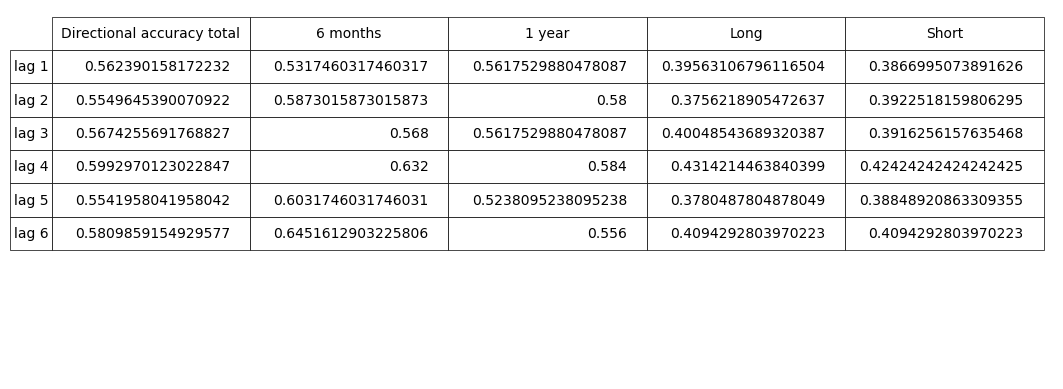
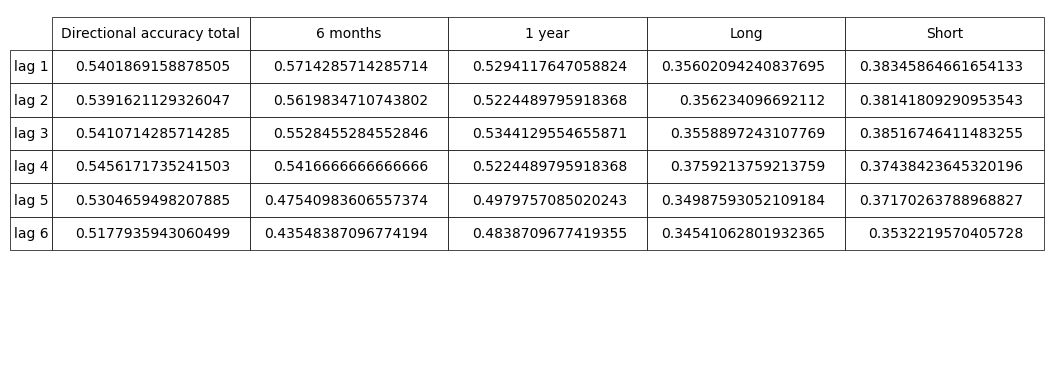
Add SQLite module for saving directional accuracy score. Add timestamp as input for lstm research.

diff --git a/data_service/data_preparation.py b/data_service/data_preparation.py
@@ -2,6 +2,8 @@ import pandas_ta as ta
 import pandas as pd
 import numpy as np
 import requests
+from collections import OrderedDict
+import traceback
 from data_service.vendors_data import yahoo_downloader as yd
 from data_service.vendors_data import binance_downloader as bd
 from data_service.vendors_data.av_downloader import AVDownloader
@@ -58,6 +60,35 @@ class DataPreparation:
             df = close_prices.copy()
             df.dropna(inplace=True)
             return df
+
+        def close_with_time(df, interval):
+            # Assuming 'close(df)' is a predefined function
+            close_df = close(df)
+
+            # Extract the interval unit and number
+            interval_unit = interval[-1]  # get the last character for unit (h, m, d, wk, M)
+            interval_number = int(interval[:-1])  # get the number part of the interval
+
+            # Define a dictionary for the interval unit conversion function
+            conversion_function = {
+                'h': lambda x: x.dt.hour + x.dt.minute / 60 + x.dt.second / 3600,
+                'm': lambda x: x.dt.minute + x.dt.second / 60,
+                'd': lambda x: x.dt.day,
+                'w': lambda x: x.dt.isocalendar().week,
+                'M': lambda x: x.dt.month
+            }
+
+            # Check if the interval unit is valid
+            if interval_unit in conversion_function:
+                # Apply the conversion function to the index
+                time_component = conversion_function[interval_unit](close_df.index.to_series())
+                # Scale based on the interval number and normalize
+                close_df['timestamp_int'] = (time_component / (interval_number * 100)).astype(float)
+
+            else:
+                raise ValueError("Invalid interval unit. Please use 'h', 'm', 'd', 'wk', or 'mo'.")
+
+            return close_df
 
         def volume(df):
             tech_dataset = df.copy()
@@ -222,31 +253,55 @@ class DataPreparation:
             df = pd.concat([df_close, df_senti], axis=1).dropna().copy()
         elif self.type == 'Fundamentals':
             df = fundamentals(df)
+
         else:
-            q1 = close(df)
-            q2 = volume(df)
-            q3 = open(df)
-            q4 = technical(df)
-            q5 = indicators(df, self.past)
-            q6 = macro(df, self.interval)
+            df_dict = {}
+            functions_to_call = {
+                'close': close,
+                'time': lambda df: close_with_time(df, self.interval),
+                'volume': volume,
+                'open': open,
+                'technical': technical,
+                'indicators': lambda df: indicators(df, self.past),
+                'macro': lambda df: macro(df, self.interval),
+                'senti': lambda: 100 + senti(self.asset),  # No 'df' passed here
+                'crypto_sentiment_daily': crypto_sentiment_daily,
+                'ranked_crypto_sentiment_daily': ranked_crypto_sentiment_daily,
+                'crypto_benchmark': lambda: crypto_benchmark()[['Close']].rename(columns={'Close': 'BTC-USD Close'}),
+                'meteo': meteo,
+            }
 
-            try:
-                q7 = 100 + senti(self.asset)
-            except:
-                q7 = pd.DataFrame()
-                print('Sentiment dictionary doesnt contain the asset')
+            # Iterate over the dictionary, try to call each function and store the result in df_dict
+            for key, function in functions_to_call.items():
+                try:
+                    # For functions that don't take 'df' as an argument
+                    if key in ['senti', 'crypto_sentiment_daily', 'ranked_crypto_sentiment_daily', 'crypto_benchmark',
+                               'meteo']:
+                        df_dict[key] = function()
+                    else:  # For all other functions, pass 'df' as an argument
+                        df_dict[key] = function(df)
+                    print(f"Function {key} executed successfully.")
+                except Exception as e:
+                    print(f"An error occurred in function {key}: {e}")
+
+            # If the asset is a cryptocurrency, merge additional data
             if self.asset[-4:] == '-USD':
-                q8 = crypto_sentiment_daily()
-                q9 = ranked_crypto_sentiment_daily()
-                q10 = crypto_benchmark()[['Close']].rename(columns={'Close' : 'BTC-USD Close'})
-                q1 = q1.merge(q8, how='left', left_index=True, right_index=True)
-                q1 = q1.merge(q9, how='left', left_index=True, right_index=True)
-                q1 = q1.merge(q10, how='left', left_index=True, right_index=True)
-            q11 = meteo()
-            q1 = q1.merge(q11, how='left', left_index=True, right_index=True)
+                for key in ['crypto_sentiment_daily', 'ranked_crypto_sentiment_daily', 'crypto_benchmark']:
+                    if key in df_dict:
+                        df_dict['close'] = df_dict['close'].merge(df_dict[key], how='left', left_index=True,
+                                                                  right_index=True)
 
-            df = pd.concat([q1, q2, q3, q4, q5, q6, q7], axis=1)
-            df = df.loc[:, ~df.columns.duplicated()]
+            # Merge all dataframes from the dictionary that have been successfully created
+            df_final = pd.DataFrame()
+            for key, data in df_dict.items():
+                if isinstance(data, pd.DataFrame):
+                    df_final = df_final.join(data, how='outer', rsuffix=f'_{key}') if not df_final.empty else data
+                else:
+                    print(f"No DataFrame for key: {key}")
+
+            # Remove duplicated columns after the join
+            df = df_final.loc[:, ~df_final.columns.duplicated()]
+
 
         first_column = df.pop('Close')
         df.insert(0, 'Close', first_column)

diff --git a/db_service/SQLite.py b/db_service/SQLite.py
@@ -1,0 +1,64 @@
+import sqlite3
+import os
+import pandas as pd
+import json
+from db_service.schemas.tables_schemas import DIRECTIONAL_ACCURACY_TABLE_SCHEMA
+from Const import DA_TABLE
+
+# Getting tables directory
+current_file_path = os.path.abspath(__file__)
+directory_path = os.path.dirname(current_file_path)
+tables_directory = os.path.join(directory_path, 'tables')  # Use os.path.join for path concatenation
+
+
+# Define the function to load DataFrame into SQLite
+def directional_accuracy_history_load(table_name: str) -> pd.DataFrame:
+    # Gets full path
+    abs_path = os.path.join(tables_directory, table_name)
+    conn = sqlite3.connect(abs_path)
+
+    # Creates table if doesn't exist
+    conn.execute(DIRECTIONAL_ACCURACY_TABLE_SCHEMA)
+
+    # Load existing data into a DataFrame
+    df = pd.read_sql_query(f"SELECT * FROM {table_name.split('.')[0]}", conn)
+    conn.close()
+    return df
+
+
+# Define the function to add DataFrame to SQLite
+def directional_accuracy_history_add(table_name: str, table_to_add: pd.DataFrame) -> None:
+    try:
+        # Gets full path
+        abs_path = os.path.join(tables_directory, table_name)
+        conn = sqlite3.connect(abs_path)
+
+        # Creates table if doesn't exist
+        conn.execute(DIRECTIONAL_ACCURACY_TABLE_SCHEMA)
+
+        # Serializes the list value
+        table_to_add['da_list'] = table_to_add['da_list'].apply(json.dumps)
+
+        # Adds new data from the DataFrame to the specified table
+        table_to_add.to_sql(table_name.split('.')[0], conn, if_exists='append', index=False)
+
+        # Commit changes and close the connection
+        conn.commit()
+        conn.close()
+    except Exception as e:
+        print(f"An error occurred: {e}")
+
+
+if __name__ == '__main__':
+    # Sample data to create a DataFrame
+    import datetime
+
+    data = {
+        'model_name': ['ETH-USD_Custom_150_150_10_1d_A'],
+        'da_score': [0.607804918],
+        'da_list': [[0.632445, 0.532754, 0.432635]],  # List of floats
+        'date': [datetime.datetime.now().strftime('%Y-%m-%d %H:%M:%S')]  # Current date and time
+    }
+    df_to_add = pd.DataFrame(data)
+    directional_accuracy_history_add(DA_TABLE, df_to_add)
+    downloaded_data = directional_accuracy_history_load(DA_TABLE)

diff --git a/data_service/data_transformation.py b/data_service/data_transformation.py
@@ -10,6 +10,13 @@ def _data_normalisation(df, is_targeted: bool = False):
     """
     if is_targeted:
         column_to_add = df['Close'].rename('Target')
+    add_timestamp = False
+    if 'timestamp_int' in df.columns:
+        columns = df.columns.tolist()
+        columns.remove('timestamp_int')
+        df_to_add = df['timestamp_int']
+        df = df[columns]
+        add_timestamp = True
     df.replace(0, 1, inplace=True)
     df = (df / df.shift()).fillna(value=1)
     for x in df.columns:
@@ -19,6 +26,8 @@ def _data_normalisation(df, is_targeted: bool = False):
         df[x] = val
     if is_targeted:
         df = pd.concat([df, column_to_add], axis=1)
+    if add_timestamp:
+        df = pd.concat([df, df_to_add], axis=1)
     return df
 
 

diff --git a/utilities/directional_accuracy_services.py b/utilities/directional_accuracy_services.py
@@ -1,6 +1,8 @@
 import pandas as pd
 import datetime
 from PATH_CONFIG import _ROOT_PATH
+from db_service.SQLite import directional_accuracy_history_add
+from Const import DA_TABLE
 
 
 def save_directional_accuracy_score(model_name: str, results: pd.Series) -> None:
@@ -31,4 +33,6 @@ def save_directional_accuracy_score(model_name: str, results: pd.Series) -> None
     # Write the updated DataFrame back to the Excel file
     df.to_excel(abs_path)
 
+    # Adding table to SQL db
+    directional_accuracy_history_add(DA_TABLE, df_to_add)
     return None

diff --git a/db_service/schemas/tables_schemas.py b/db_service/schemas/tables_schemas.py
@@ -1,0 +1,9 @@
+from Const import DA_TABLE
+
+DIRECTIONAL_ACCURACY_TABLE_SCHEMA = f"""CREATE TABLE IF NOT EXISTS {DA_TABLE.split('.'[0])} (
+                                        id INTEGER PRIMARY KEY AUTOINCREMENT,
+                                        model_name TEXT,
+                                        da_score REAL,
+                                        da_list TEXT,
+                                        date TIMESTAMP
+                                    );"""

diff --git a/Const.py b/Const.py
@@ -1,0 +1,1 @@
+DA_TABLE = 'da_history.db'
